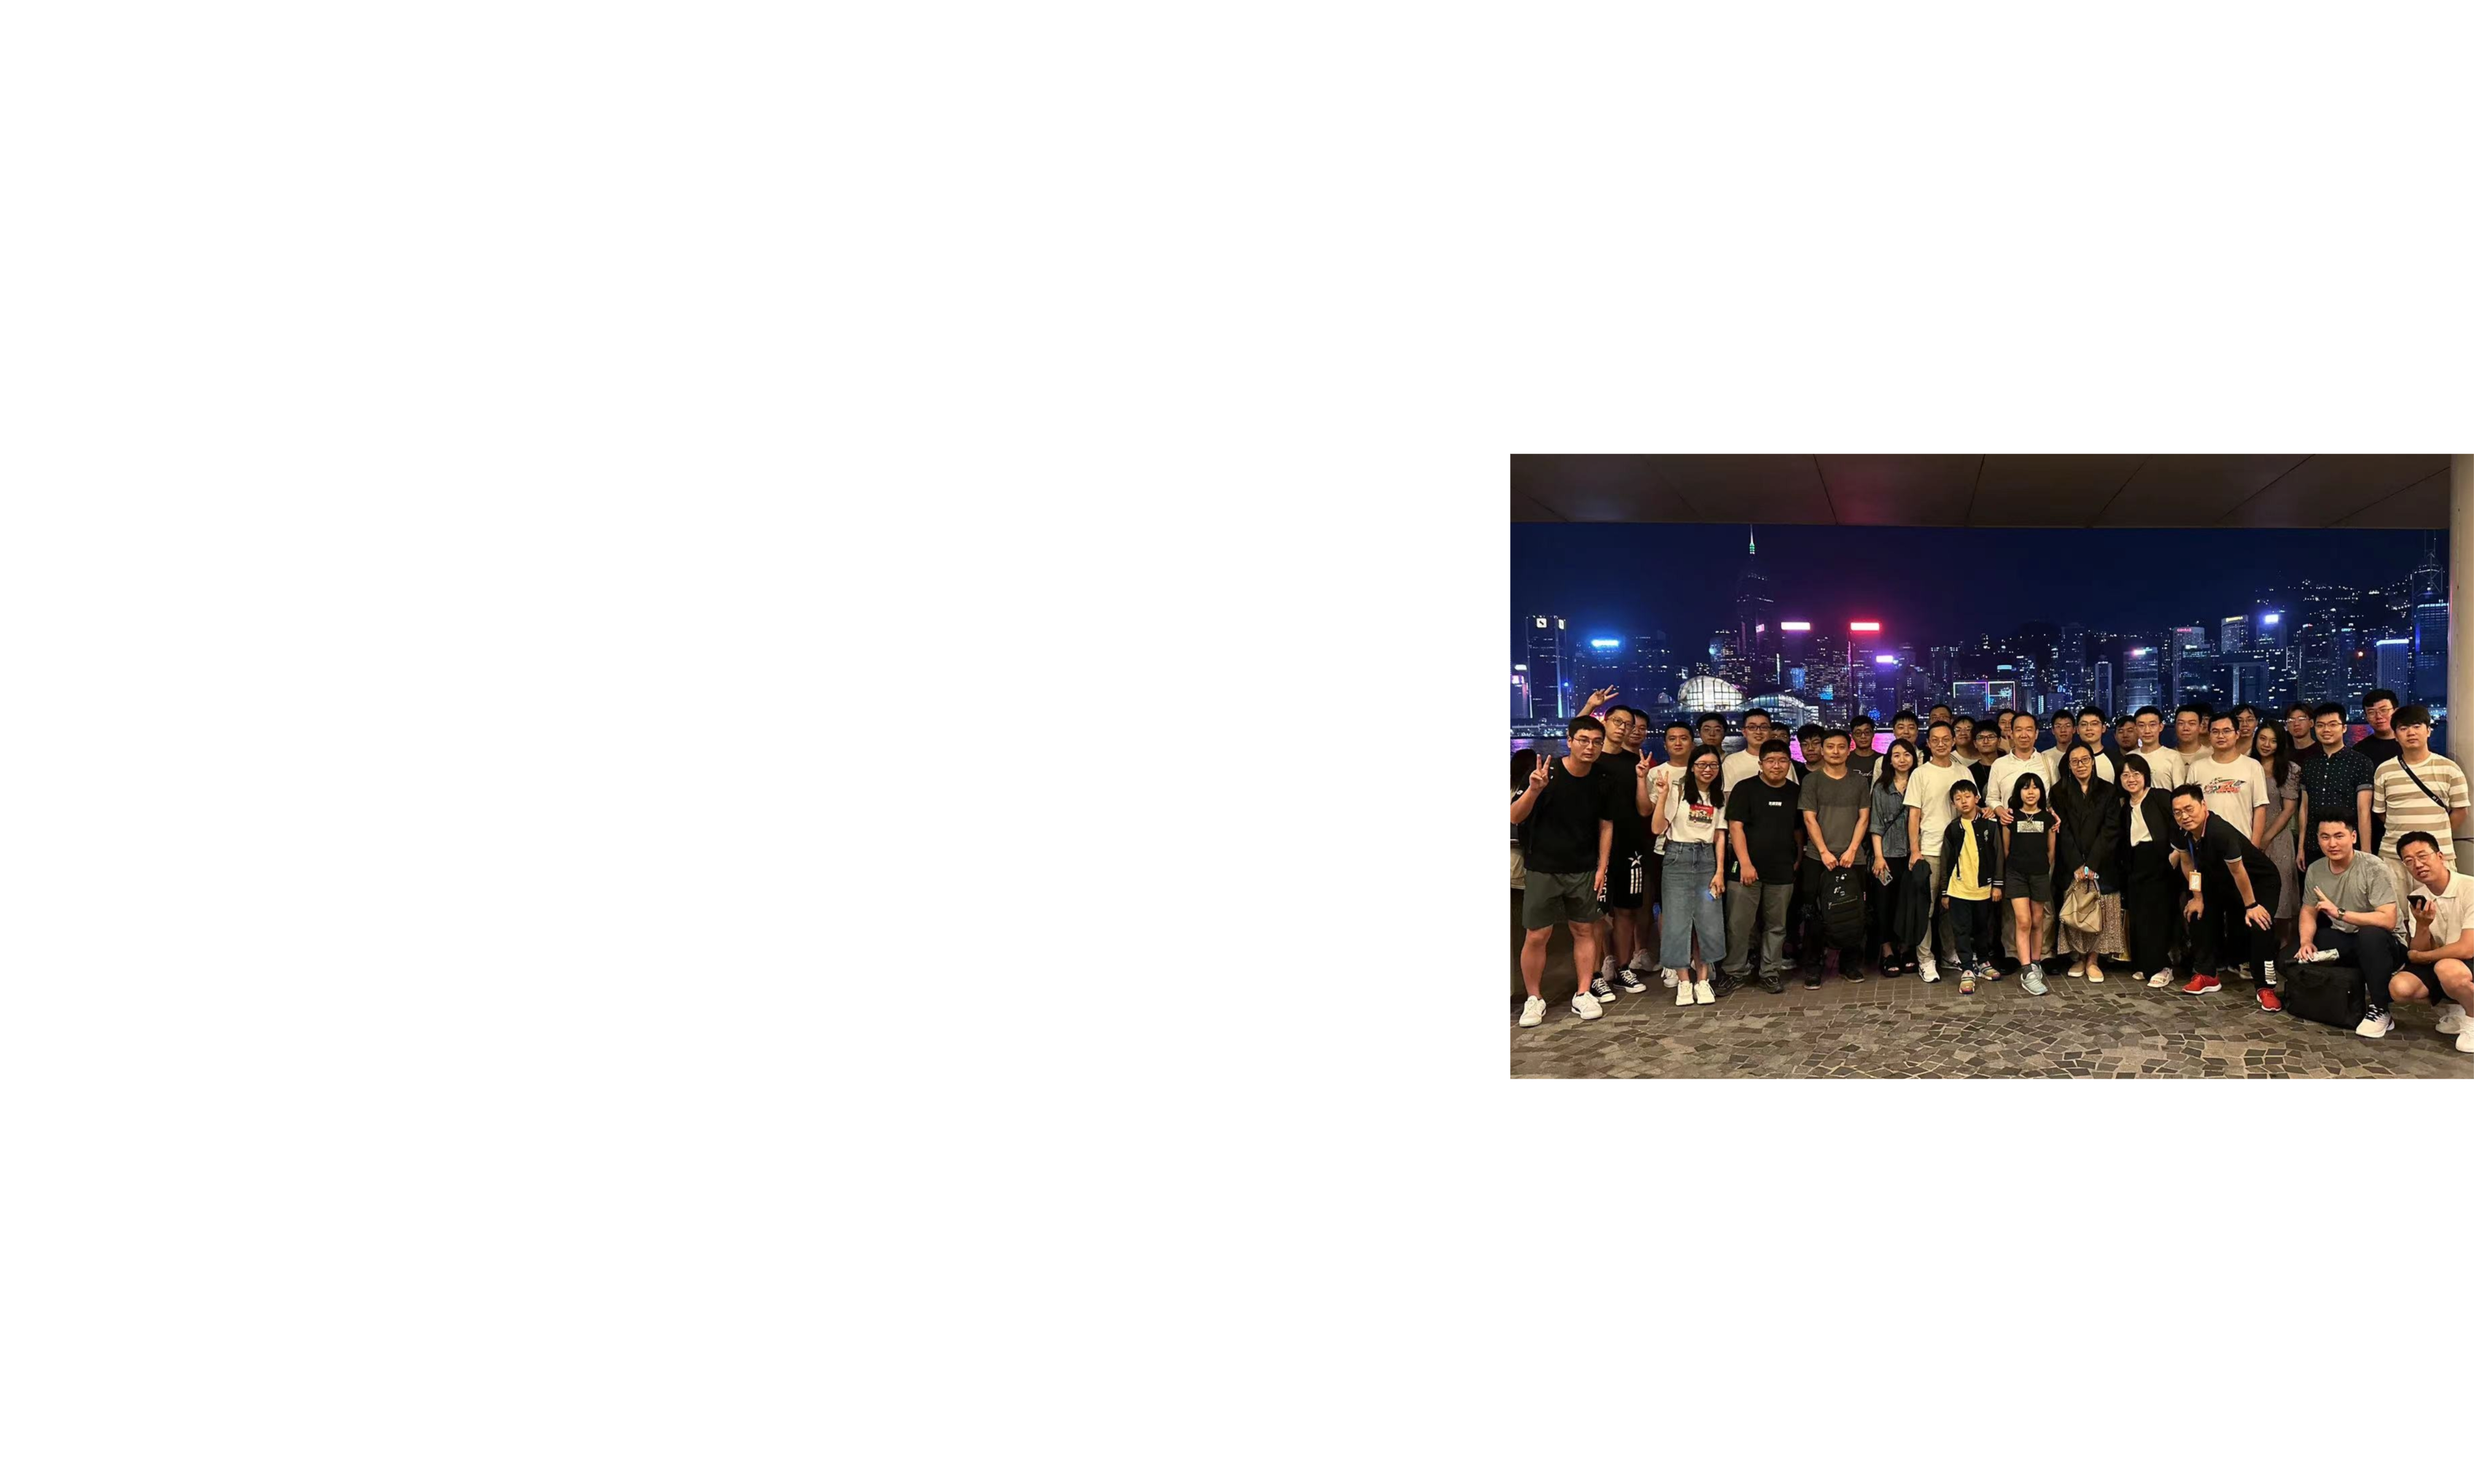
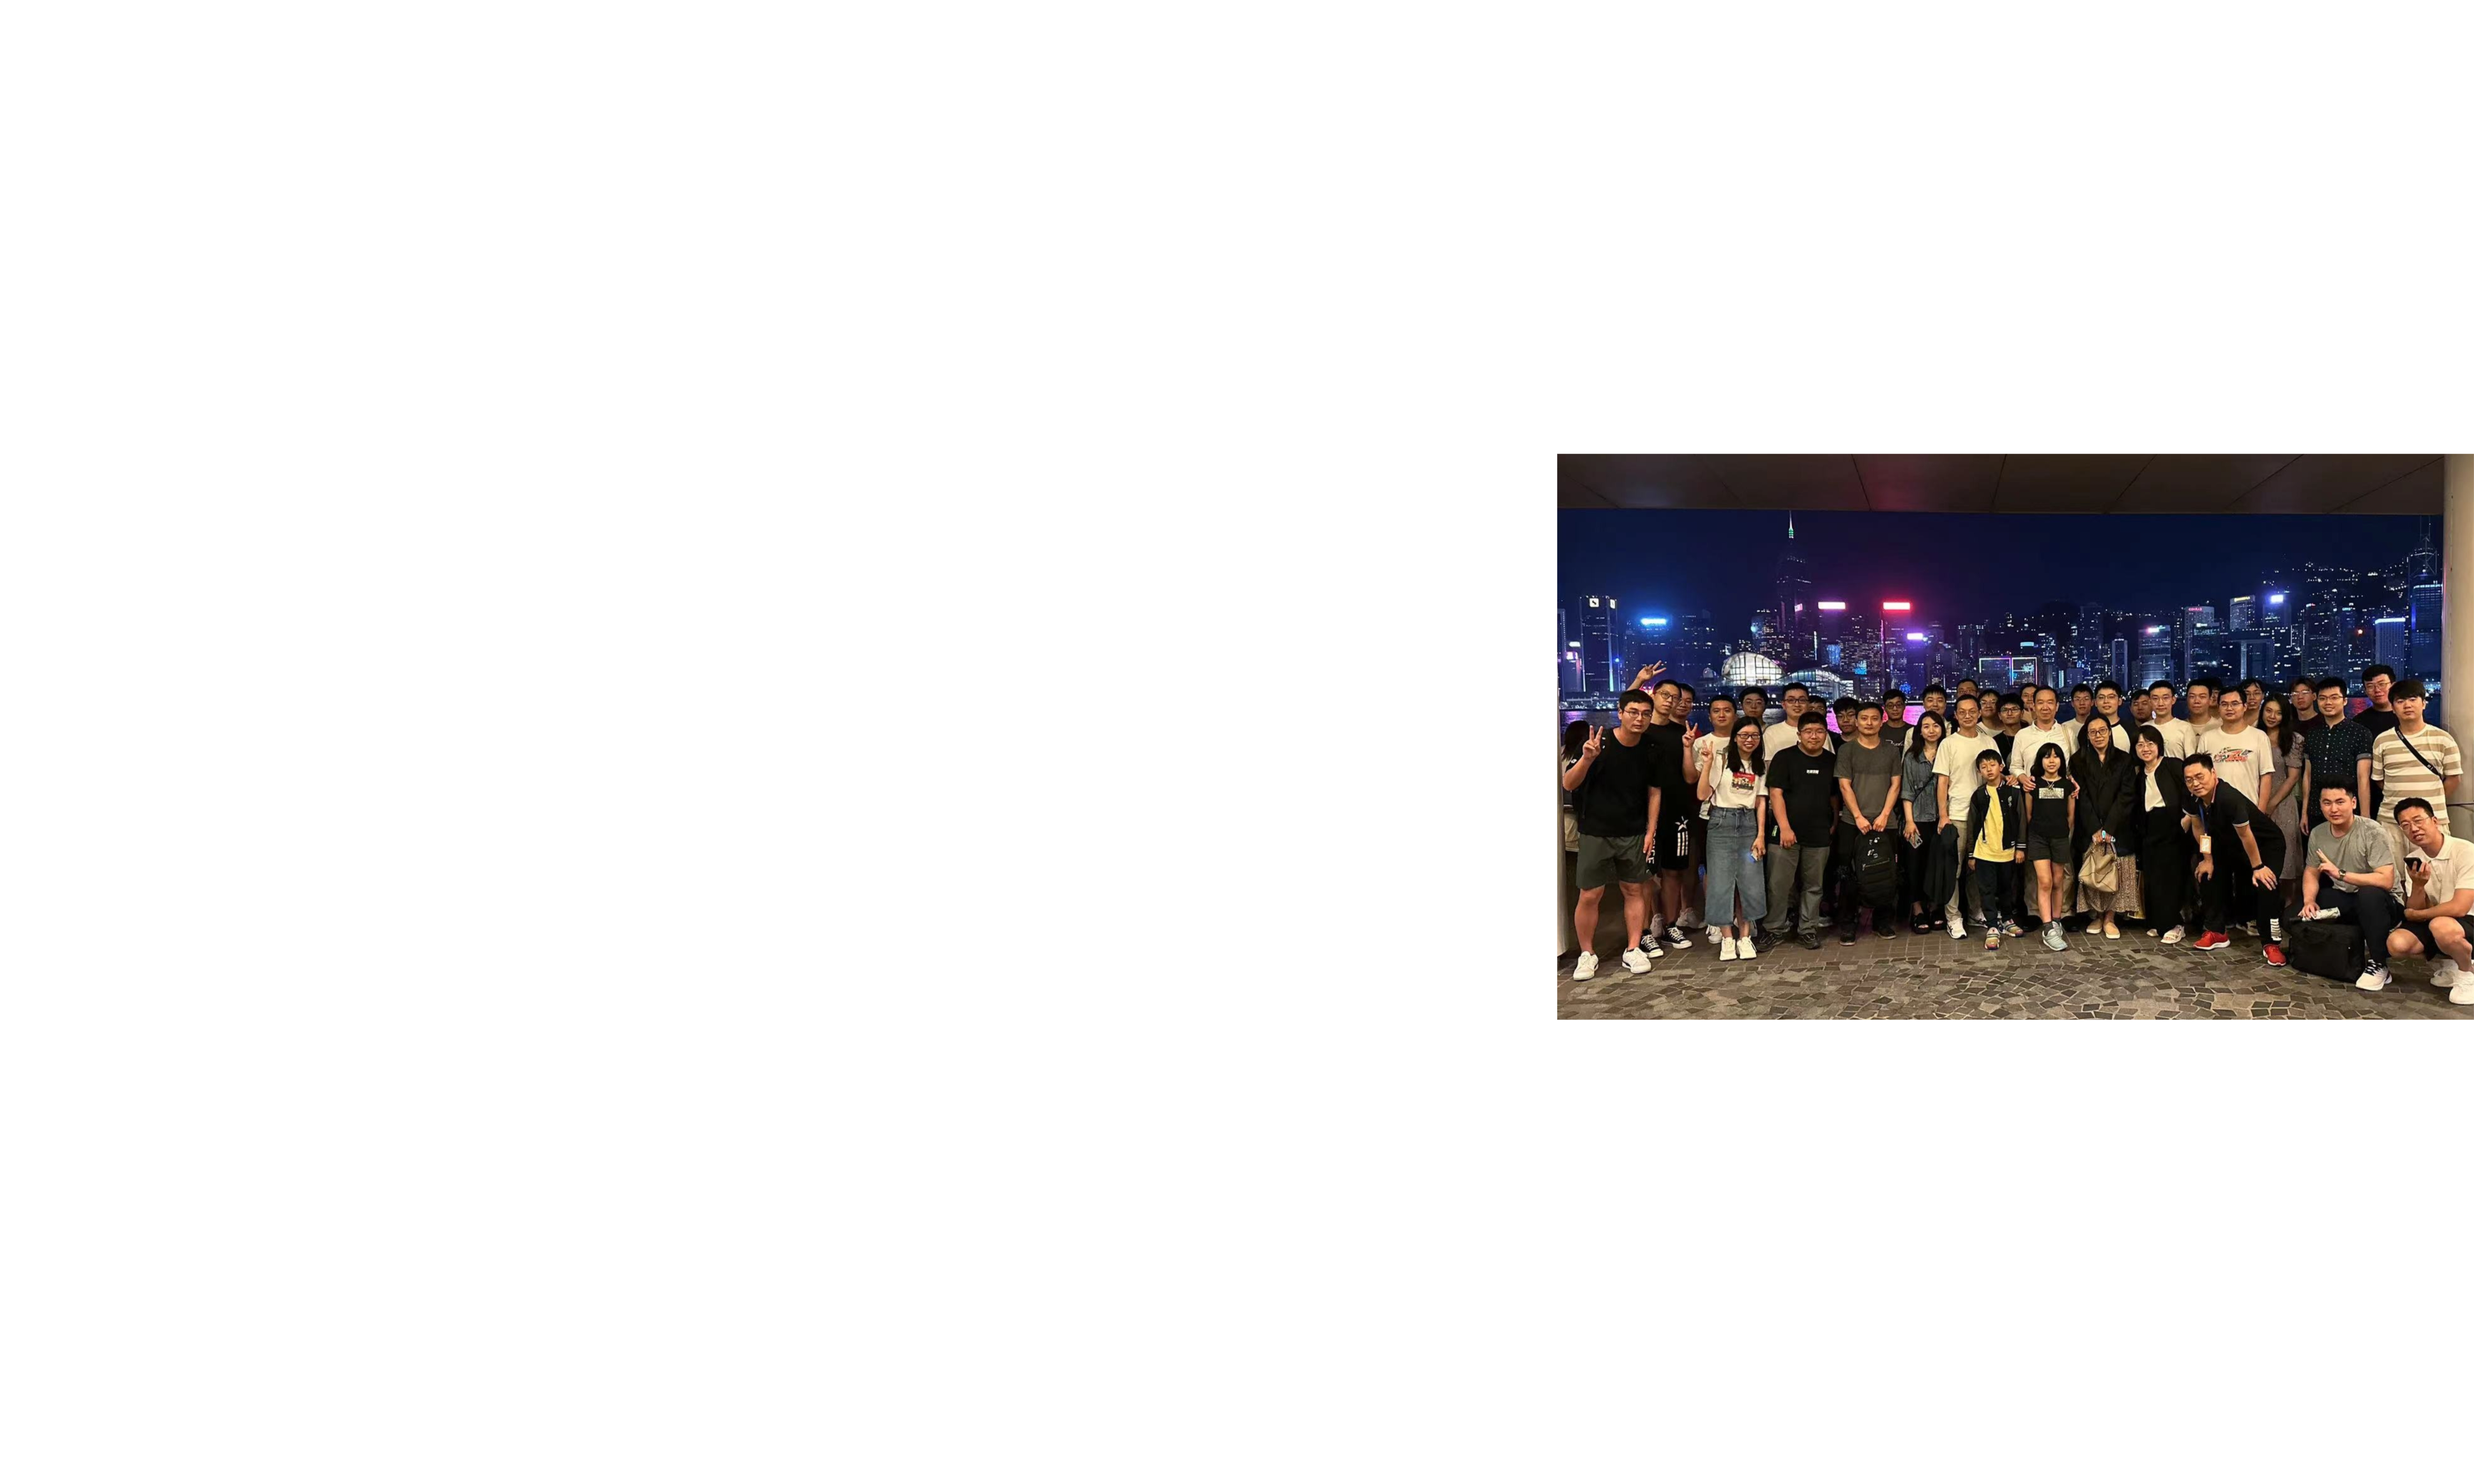
9.2

Changed region(s): [[0.5928, 0.31, 1.0, 0.744]]

diff --git a/content/home/introduce.md b/content/home/introduce.md
@@ -7,7 +7,7 @@ title: "Welcome to PEILab 👋"
 subtitle: ""
 
 design:
-  columns: '1'
+  columns: '2'
   background:
     image: hello.jpg
     image_darken: 0

diff --git a/content/home/news.md b/content/home/news.md
@@ -2,7 +2,7 @@
 # Documentation: https://wowchemy.com/docs/page-builder/
 widget: pages
 headless: true
-weight: 10
+weight: 5
 
 title: Latest News
 subtitle:
